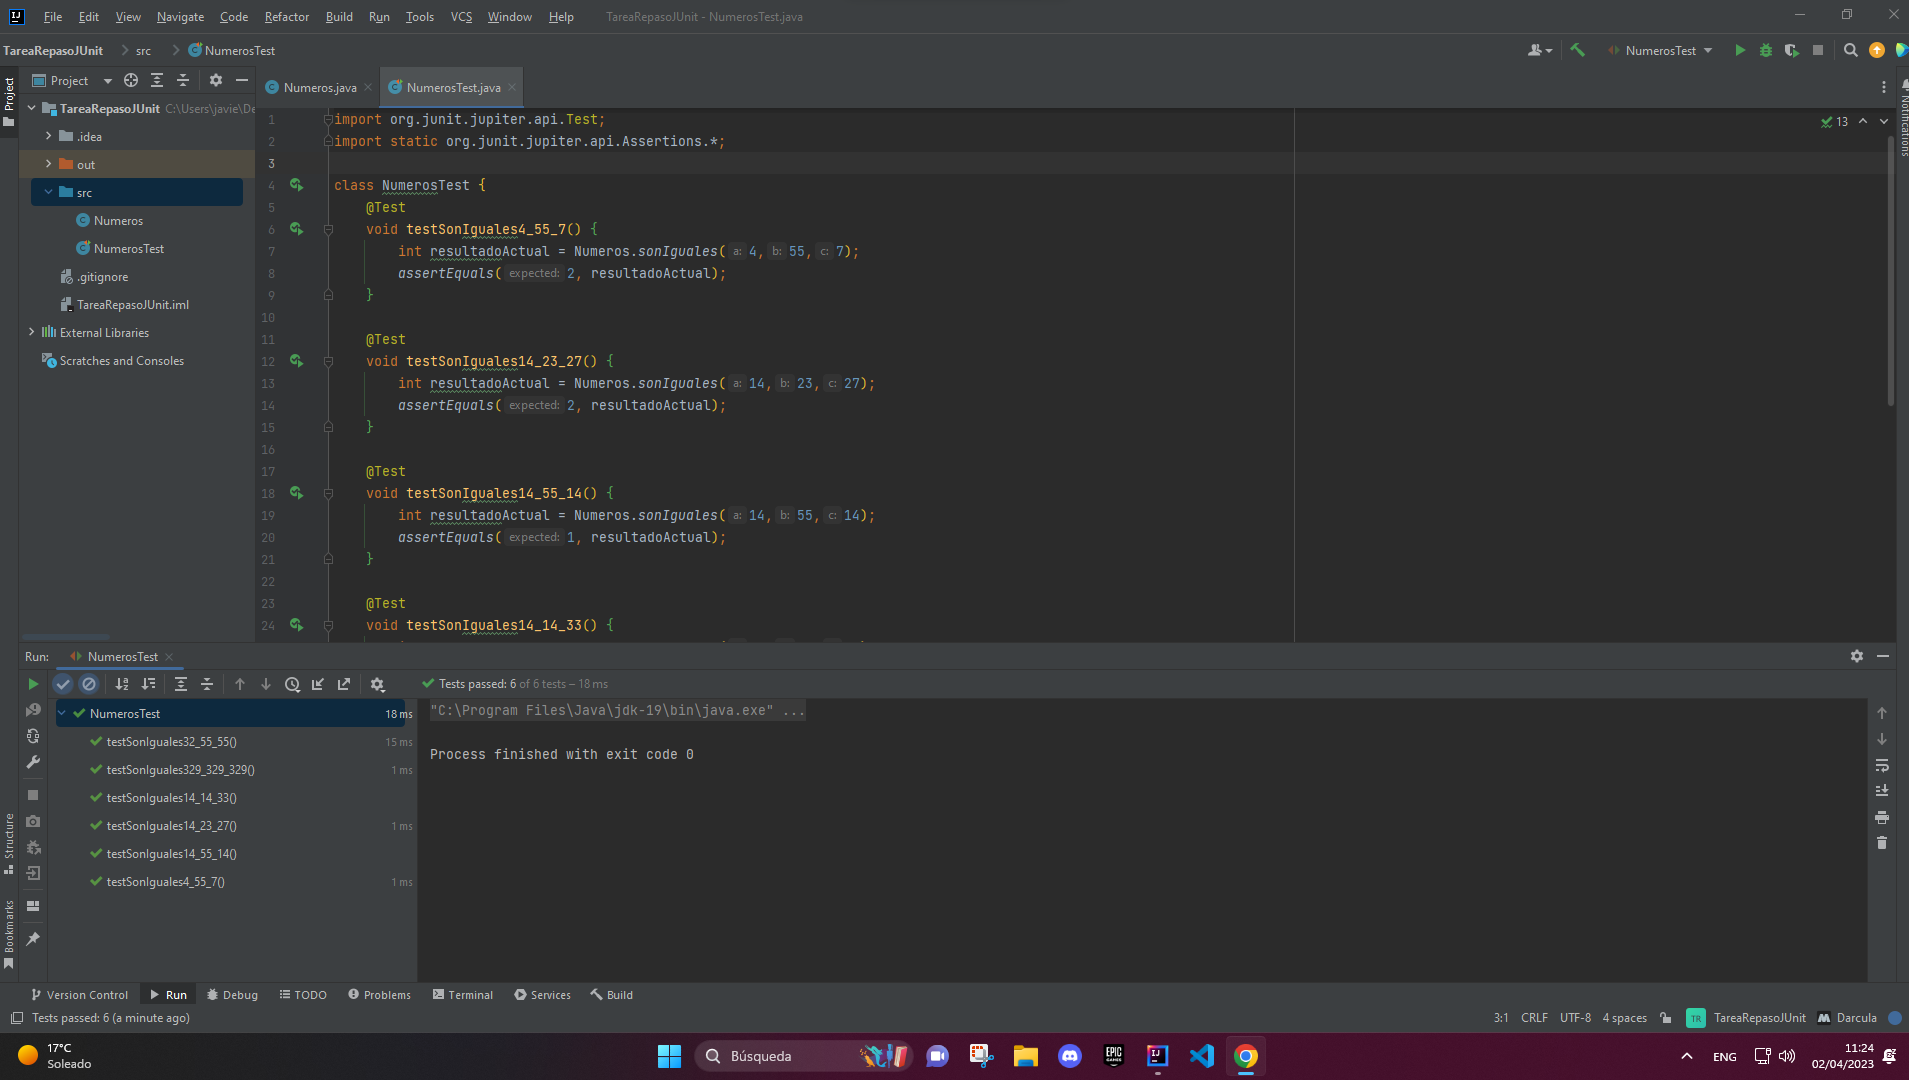
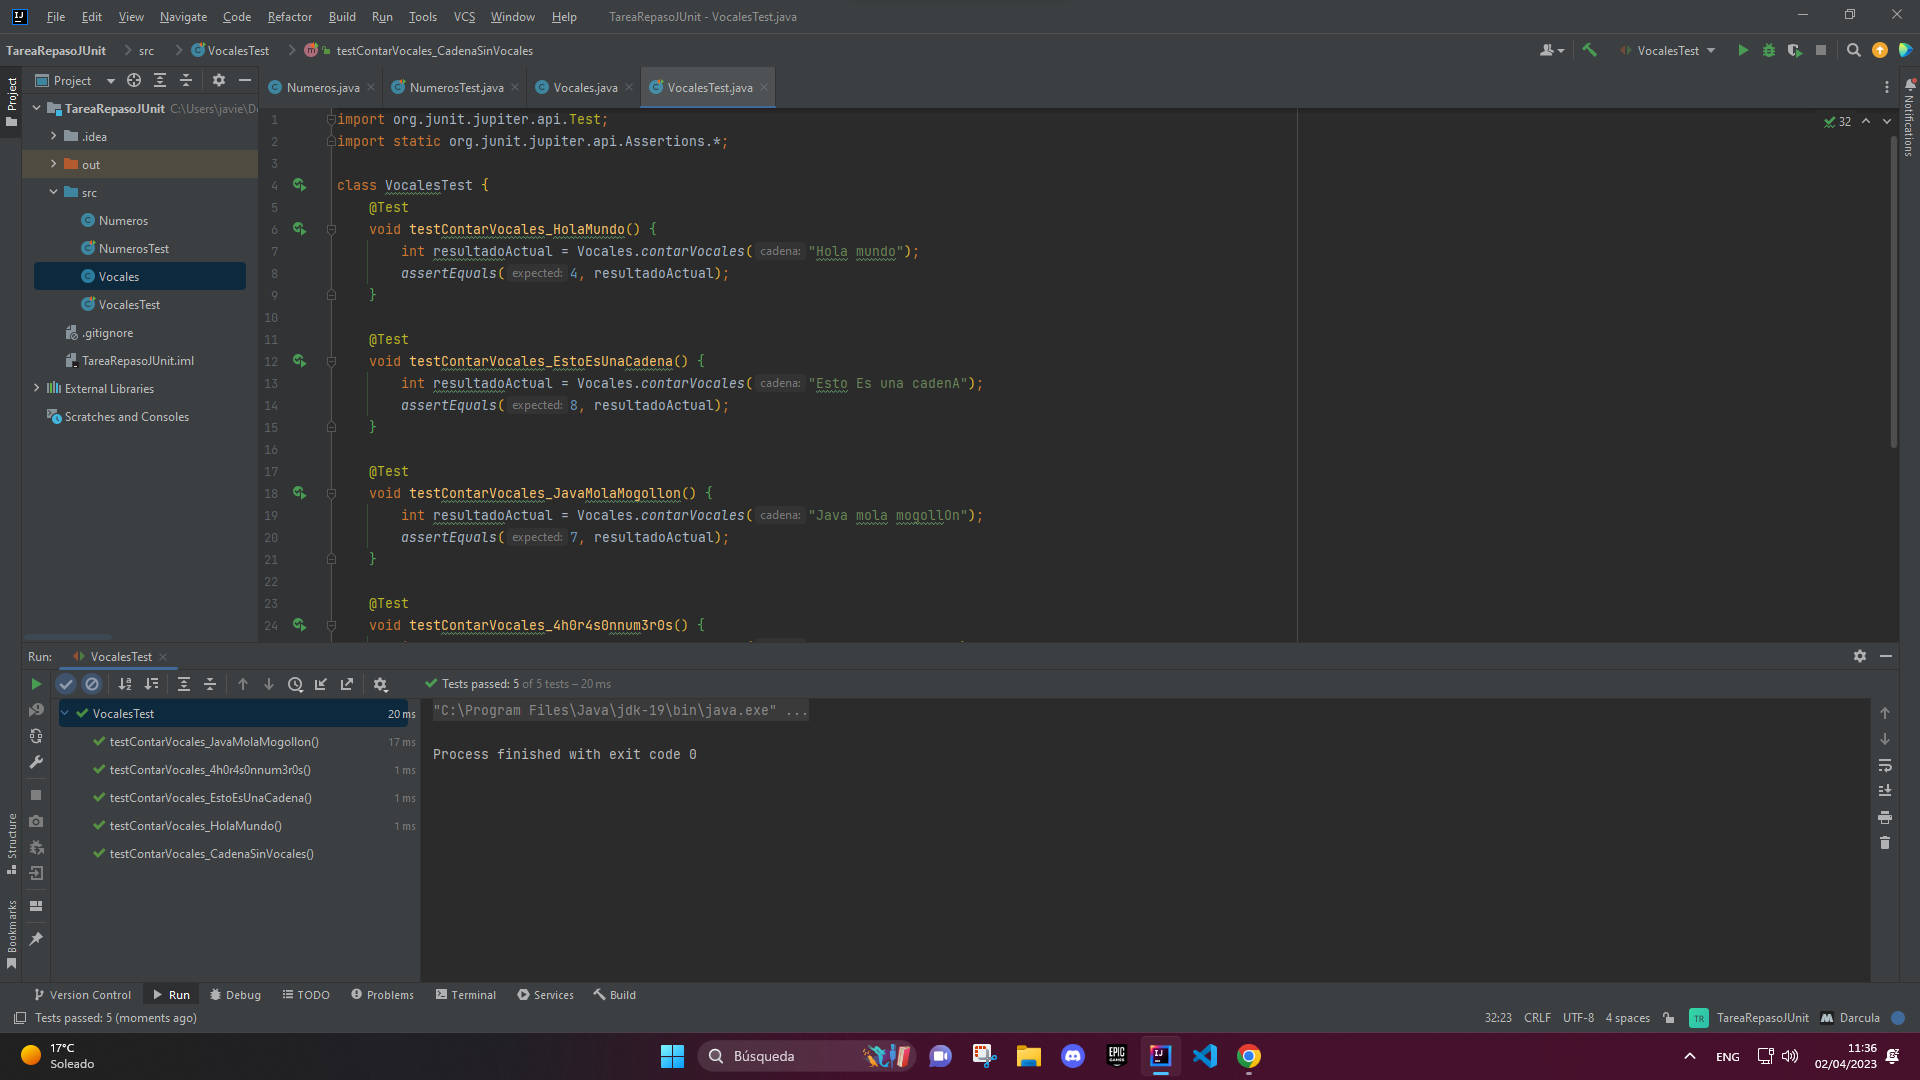
Add files via upload

diff --git a/VocalesTest.java b/VocalesTest.java
@@ -1,0 +1,34 @@
+import org.junit.jupiter.api.Test;
+import static org.junit.jupiter.api.Assertions.*;
+
+class VocalesTest {
+    @Test
+    void testContarVocales_HolaMundo() {
+        int resultadoActual = Vocales.contarVocales("Hola mundo");
+        assertEquals(4, resultadoActual);
+    }
+
+    @Test
+    void testContarVocales_EstoEsUnaCadena() {
+        int resultadoActual = Vocales.contarVocales("Esto Es una cadenA");
+        assertEquals(8, resultadoActual);
+    }
+
+    @Test
+    void testContarVocales_JavaMolaMogollon() {
+        int resultadoActual = Vocales.contarVocales("Java mola mogollOn");
+        assertEquals(7, resultadoActual);
+    }
+
+    @Test
+    void testContarVocales_4h0r4s0nnum3r0s() {
+        int resultadoActual = Vocales.contarVocales("4h0r4 s0n num3r0s");
+        assertEquals(1, resultadoActual);
+    }
+
+    @Test
+    void testContarVocales_CadenaSinVocales() {
+        int resultadoActual = Vocales.contarVocales("Cadena S1n Vocales");
+        assertEquals(6, resultadoActual);
+    }
+}

diff --git a/Vocales.java b/Vocales.java
@@ -1,0 +1,25 @@
+public class Vocales {
+    public static int contarVocales(String cadena) {
+        int contA = 0, contE = 0, contI = 0, contO =  0, contU = 0, suma = 0;
+
+        for (int i = 0; i < cadena.length(); i++) {
+            if (cadena.charAt(i) == 'A' || cadena.charAt(i) == 'a') {
+                contA++;
+            }
+            if (cadena.charAt(i) == 'E' || cadena.charAt(i) == 'e') {
+                contE++;
+            }
+            if (cadena.charAt(i) == 'I' || cadena.charAt(i) == 'i') {
+                contI++;
+            }
+            if (cadena.charAt(i) == 'O' || cadena.charAt(i) == 'o') {
+                contO++;
+            }
+            if (cadena.charAt(i) == 'U' || cadena.charAt(i) == 'u') {
+                contU++;
+            }
+        }
+        suma = contA + contE + contI + contO + contU;
+        return suma;
+    }
+}
